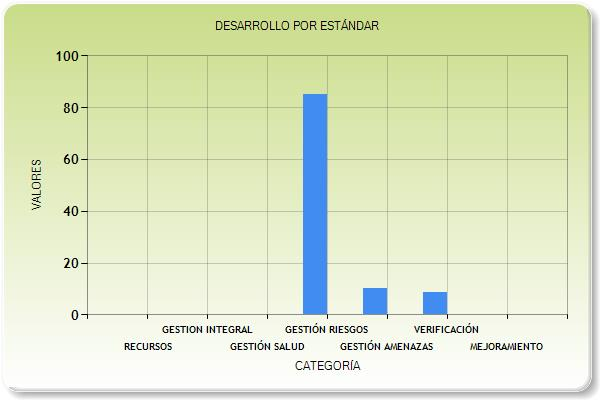
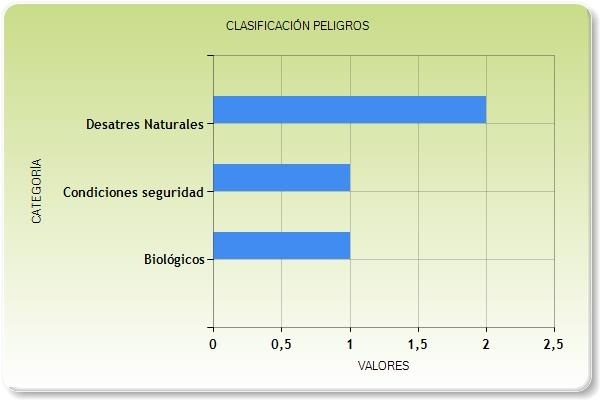
implemented riesgos controller and evaluation controller graphics

diff --git a/WSafe/WSafe.Web/Scripts/GestorRiesgosSST.js b/WSafe/WSafe.Web/Scripts/GestorRiesgosSST.js
@@ -3323,8 +3323,51 @@ function chartValueDangers() {
         contentType: "application/json;charset=utf-8",
         dataType: "json",
         async: true,
-        success: function (response) {
-            $("#ValueDangers").attr("src", response);
+        success: function (data) {
+            var arrayData1 = [];
+            for (var i = 0; i < data.length; i++) {
+                arrayData1.push(data[i].Resultado);
+            }
+            const ctx = document.getElementById("ValueDangers").getContext('2d');
+            const chart = new Chart(ctx, {
+                type: 'pie',
+                data: {
+                    labels: ["MUY ALTO", "ALTO", "MEDIO", "BAJO"],
+                    datasets: [
+                        {
+                            label: "CATEGORÍAS",
+                            backgroundColor: [
+                                'rgb(255, 99, 132)',
+                                'rgb(75, 192, 192)',
+                                'rgb(255, 205, 86)',
+                                'rgb(201, 203, 207)',
+                            ],
+                            data: arrayData1
+                        },
+                    ]
+                },
+                options: {
+                    responsive: true,
+                    scales: {
+                        x: {
+                            display: true,
+                            title: {
+                                display: true
+                            }
+                        },
+                        y: {
+                            display: true,
+                            title: {
+                                display: true
+                            }
+                        }
+                    },
+                    title: {
+                        display: true,
+                        text: 'VALORACION PELIGROS'
+                    }
+                }
+            });
         },
         error: function (xhr, ajaxOptions, thrownError) {
             alert(xhr.status);
@@ -3341,8 +3384,48 @@ function chartClassDangers() {
         contentType: "application/json;charset=utf-8",
         dataType: "json",
         async: true,
-        success: function (response) {
-            $("#ClassDangers").attr("src", response);
+        success: function (data) {
+            var arrayLabel = [];
+            var arrayData1 = [];
+            for (var i = 0; i < data.length; i++) {
+                arrayLabel.push(data[i].MesAnn);
+                arrayData1.push(data[i].Resultado);
+            }
+            const ctx = document.getElementById("ClassDangers").getContext('2d');
+            const chart = new Chart(ctx, {
+                type: 'bar',
+                data: {
+                    labels: arrayLabel,
+                    datasets: [
+                        {
+                            label: "CATEGORÍAS",
+                            backgroundColor: 'rgb(255, 205, 86)',
+                            data: arrayData1
+                        },
+                    ]
+                },
+                options: {
+                    responsive: true,
+                    scales: {
+                        x: {
+                            display: true,
+                            title: {
+                                display: true
+                            }
+                        },
+                        y: {
+                            display: true,
+                            title: {
+                                display: true
+                            }
+                        }
+                    },
+                    title: {
+                        display: true,
+                        text: 'CLASIFICACIÓN PELIGROS'
+                    }
+                }
+            });
         },
         error: function (xhr, ajaxOptions, thrownError) {
             alert(xhr.status);
@@ -3359,8 +3442,49 @@ function chartCommonActivitys() {
         contentType: "application/json;charset=utf-8",
         dataType: "json",
         async: true,
-        success: function (response) {
-            $("#CommonActivitys").attr("src", response);
+        success: function (data) {
+            var arrayData1 = [];
+            for (var i = 0; i < data.length; i++) {
+                arrayData1.push(data[i].Resultado);
+            }
+            const ctx = document.getElementById("CommonActivitys").getContext('2d');
+            const chart = new Chart(ctx, {
+                type: 'pie',
+                data: {
+                    labels: ["RUTINARIA", "NO RUTINARIA"],
+                    datasets: [
+                        {
+                            label: "CATEGORÍAS",
+                            backgroundColor: [
+                                'rgb(75, 192, 192)',
+                                'rgb(255, 205, 86)',
+                            ],
+                            data: arrayData1
+                        },
+                    ]
+                },
+                options: {
+                    responsive: true,
+                    scales: {
+                        x: {
+                            display: true,
+                            title: {
+                                display: true
+                            }
+                        },
+                        y: {
+                            display: true,
+                            title: {
+                                display: true
+                            }
+                        }
+                    },
+                    title: {
+                        display: true,
+                        text: 'ACTIVIDADES RUTINARIAS'
+                    }
+                }
+            });
         },
         error: function (xhr, ajaxOptions, thrownError) {
             alert(xhr.status);
@@ -3377,8 +3501,46 @@ function chartEfectosPosibles() {
         contentType: "application/json;charset=utf-8",
         dataType: "json",
         async: true,
-        success: function (response) {
-            $("#EfectosPosibles").attr("src", response);
+        success: function (data) {
+            var arrayData1 = [];
+            for (var i = 0; i < data.length; i++) {
+                arrayData1.push(data[i].Resultado);
+            }
+            const ctx = document.getElementById("EfectosPosibles").getContext('2d');
+            const chart = new Chart(ctx, {
+                type: 'bar',
+                data: {
+                    labels: ["EXTREMO","LEVE","MODERADO","A PROPIEDAD","","FALLAS A PROCESOS","PERDIDAS ECONÓMICAS"],
+                    datasets: [
+                        {
+                            label: "CATEGORÍAS DAÑOS",
+                            backgroundColor: 'rgb(255, 99, 132)',
+                            data: arrayData1
+                        },
+                    ]
+                },
+                options: {
+                    responsive: true,
+                    scales: {
+                        x: {
+                            display: true,
+                            title: {
+                                display: true
+                            }
+                        },
+                        y: {
+                            display: true,
+                            title: {
+                                display: true
+                            }
+                        }
+                    },
+                    title: {
+                        display: true,
+                        text: 'EFECTOS POSIBLES'
+                    }
+                }
+            });
         },
         error: function (xhr, ajaxOptions, thrownError) {
             alert(xhr.status);
@@ -5648,12 +5810,22 @@ function chartCalificationsCiclo() {
                     datasets: [
                         {
                             label: "VALORES MÁXIMOS",
-                            backgroundColor: "green",
+                            backgroundColor: [
+                                'rgb(75, 192, 192)',
+                                'rgb(75, 192, 192)',
+                                'rgb(75, 192, 192)',
+                                'rgb(75, 192, 192)',
+                            ],
                             data: arrayData1
                         },
                         {
                             label: "VALORES OBTENIDOS",
-                            backgroundColor: "orange",
+                            backgroundColor: [
+                                'rgb(255, 205, 86)',
+                                'rgb(255, 205, 86)',
+                                'rgb(255, 205, 86)',
+                                'rgb(255, 205, 86)',
+                            ],
                             data: arrayData2
                         }
                     ]
@@ -5713,12 +5885,28 @@ function chartPorStandard() {
                     datasets: [
                         {
                             label: "VALORES MÁXIMOS",
-                            backgroundColor: "blue",
+                            backgroundColor: [
+                                'rgb(75, 192, 192)',
+                                'rgb(75, 192, 192)',
+                                'rgb(75, 192, 192)',
+                                'rgb(75, 192, 192)',
+                                'rgb(75, 192, 192)',
+                                'rgb(75, 192, 192)',
+                                'rgb(75, 192, 192)'
+                            ],
                             data: arrayData1
                         },
                         {
                             label: "VALORES OBTENIDOS",
-                            backgroundColor: "red",
+                            backgroundColor: [
+                                'rgb(255, 205, 86)',
+                                'rgb(255, 205, 86)',
+                                'rgb(255, 205, 86)',
+                                'rgb(255, 205, 86)',
+                                'rgb(255, 205, 86)',
+                                'rgb(255, 205, 86)',
+                                'rgb(255, 205, 86)'
+                            ],
                             data: arrayData2
                         }
                     ]

diff --git a/WSafe/WSafe.Web/Controllers/RiesgosController.cs b/WSafe/WSafe.Web/Controllers/RiesgosController.cs
@@ -453,9 +453,8 @@ namespace WSafe.Web.Controllers
                 var filename = "chart" + random.Next(1, 100) + ".jpg";
                 var filePathName = "~/Images/" + filename;
                 var datos = _chartHelper.GetAllValueRisks();
-                _chartHelper.DrawImagen(filePathName, "Pie", "VALORACIÓN ACTUAL", datos);
                 var image = "/Images/" + filename;
-                return Json(image, JsonRequestBehavior.AllowGet);
+                return Json(datos, JsonRequestBehavior.AllowGet);
             }
             catch (Exception ex)
             {
@@ -472,9 +471,8 @@ namespace WSafe.Web.Controllers
                 var filename = "chart" + random.Next(1, 100) + ".jpg";
                 var filePathName = "~/Images/" + filename;
                 var datos = _chartHelper.GetAllValueActivitys();
-                _chartHelper.DrawImagen(filePathName, "Pie", "ACTIVIDADES RUTINARIAS", datos);
                 var image = "/Images/" + filename;
-                return Json(image, JsonRequestBehavior.AllowGet);
+                return Json(datos, JsonRequestBehavior.AllowGet);
             }
             catch (Exception ex)
             {
@@ -491,9 +489,8 @@ namespace WSafe.Web.Controllers
                 var filename = "chart" + random.Next(1, 100) + ".jpg";
                 var filePathName = "~/Images/" + filename;
                 var datos = _chartHelper.GetFatorRiesgoOcupacional();
-                _chartHelper.DrawImagen(filePathName, "Bar", "CLASIFICACIÓN PELIGROS", datos);
                 var image = "/Images/" + filename;
-                return Json(image, JsonRequestBehavior.AllowGet);
+                return Json(datos, JsonRequestBehavior.AllowGet);
             }
             catch (Exception ex)
             {
@@ -510,9 +507,8 @@ namespace WSafe.Web.Controllers
                 var filename = "chart" + random.Next(1, 100) + ".jpg";
                 var filePathName = "~/Images/" + filename;
                 var datos = _chartHelper.GetAllValueEfects();
-                _chartHelper.DrawImagen(filePathName, "Bar", "CLASIFICACIÓN PELIGROS", datos);
                 var image = "/Images/" + filename;
-                return Json(image, JsonRequestBehavior.AllowGet);
+                return Json(datos, JsonRequestBehavior.AllowGet);
             }
             catch (Exception ex)
             {

diff --git a/WSafe/WSafe.Web/Helpers/Implements/ChartHelper.cs b/WSafe/WSafe.Web/Helpers/Implements/ChartHelper.cs
@@ -218,7 +218,7 @@ namespace WSafe.Domain.Helpers.Implements
                 }
                 foreach (var item in viewModel)
                 {
-                    item.MesAnn = _empresaContext.CategoriasPeligros.FirstOrDefault(cp => cp.ID == item.ID).Descripcion;
+                    item.MesAnn = _empresaContext.CategoriasPeligros.FirstOrDefault(cp => cp.ID == item.ID).Descripcion.ToUpper();
                 }
 
                 return viewModel;
